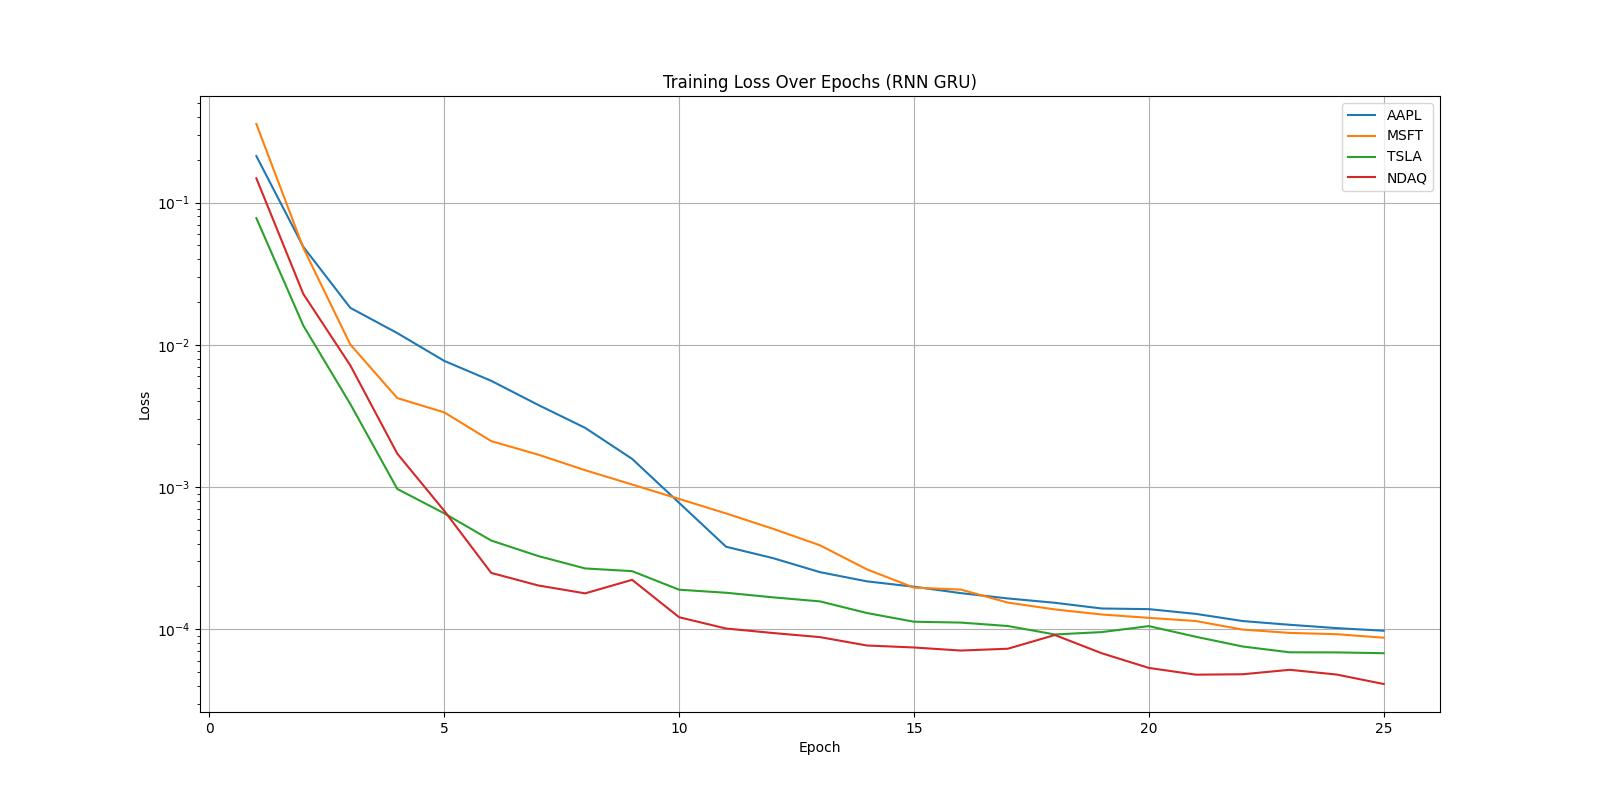
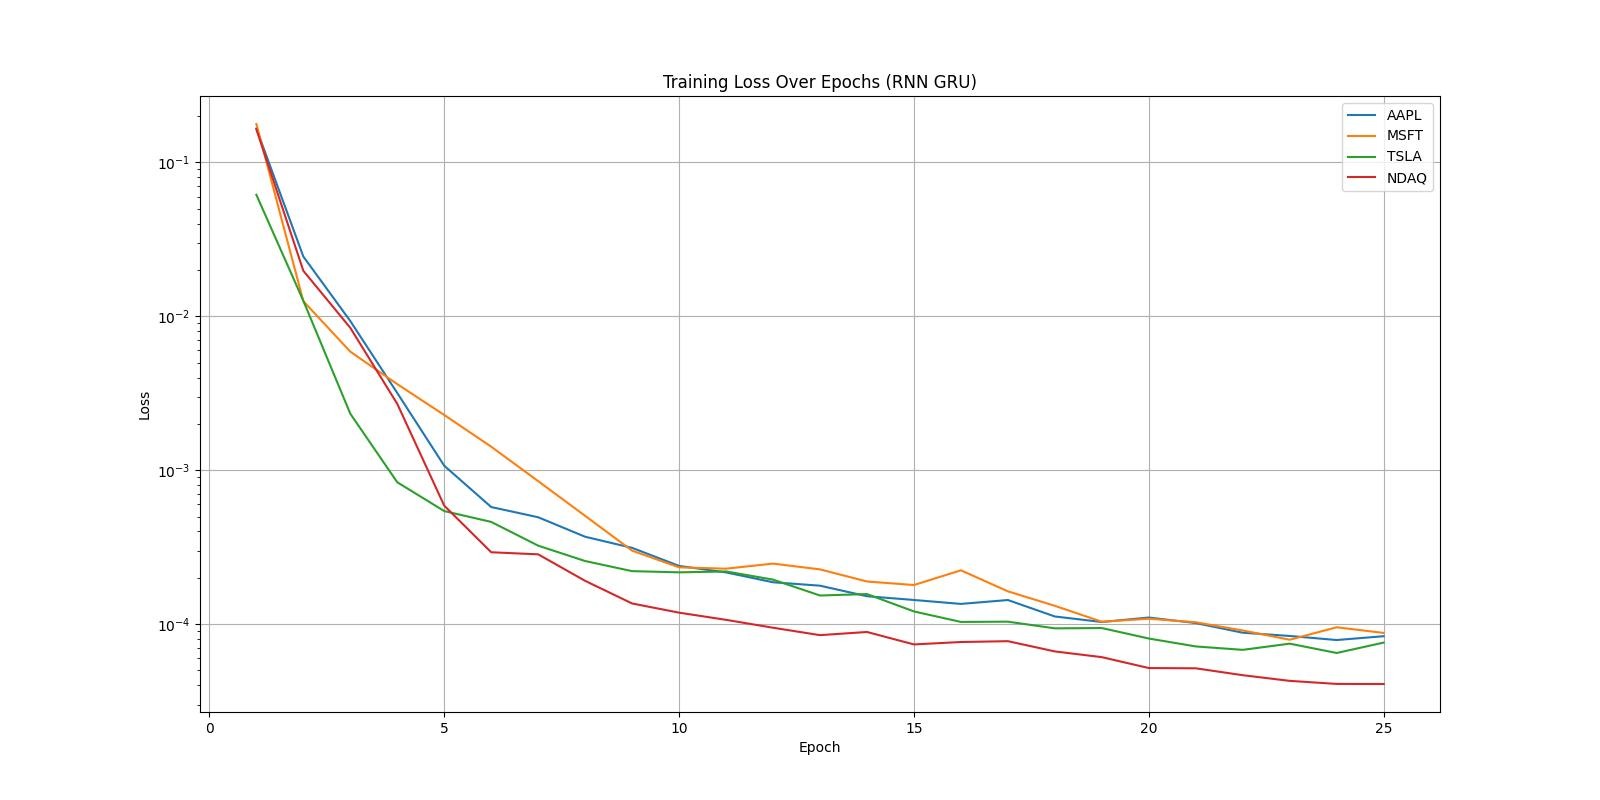
updated plots

diff --git a/plots.py b/plots.py
@@ -89,7 +89,7 @@ def plot_training_losses(loss_dict, type):
     plt.title(f"Training Loss Over Epochs ({type})")
     plt.xlabel("Epoch")
     plt.ylabel("Loss")
-    plt.yscale('log')
+    # plt.yscale('log')
     plt.legend()
     plt.grid(True)
 
@@ -100,25 +100,25 @@ if __name__ == "__main__":
     stocks = ["AAPL", "MSFT", "TSLA", "NDAQ"]
 
     best_params = {
-        "AAPL" : {
-            "rnn_baseline" : (2, 512, 0.001), 
-            "rnn_gru"      : (1,  32, 0.01),
-            "rnn_lstm"     : (1,  32, 0.1)
+        "AAPL": {
+            "rnn_baseline": (4, 1024, 0.0001),
+            "rnn_gru":      (2,  256, 0.001),
+            "rnn_lstm":     (1,  128, 0.01)
         },
-        "MSFT" :  {
-            "rnn_baseline" : (1,  32, 0.01), 
-            "rnn_gru"      : (1,  64, 0.01),
-            "rnn_lstm"     : (1, 256, 0.01)
+        "MSFT": {
+            "rnn_baseline": (1,   32, 0.01),
+            "rnn_gru":      (1,  512, 0.001),
+            "rnn_lstm":     (1,  256, 0.01)
         },
-        "TSLA" :  {
-            "rnn_baseline" : (1, 256, 0.001), 
-            "rnn_gru"      : (1, 256, 0.001),
-            "rnn_lstm"     : (1,  32, 0.01)
+        "TSLA": {
+            "rnn_baseline": (1,  512, 0.001),
+            "rnn_gru":      (1,  128, 0.001),
+            "rnn_lstm":     (1,   64, 0.1)
         },
-        "NDAQ" :  {
-            "rnn_baseline" : (1,  32, 0.01), 
-            "rnn_gru"      : (1, 256, 0.01),
-            "rnn_lstm"     : (1, 256, 0.01)
+        "NDAQ": {
+            "rnn_baseline": (1,   64, 0.01),
+            "rnn_gru":      (1,   64, 0.01),
+            "rnn_lstm":     (1,  256, 0.01)
         }
     }
 
